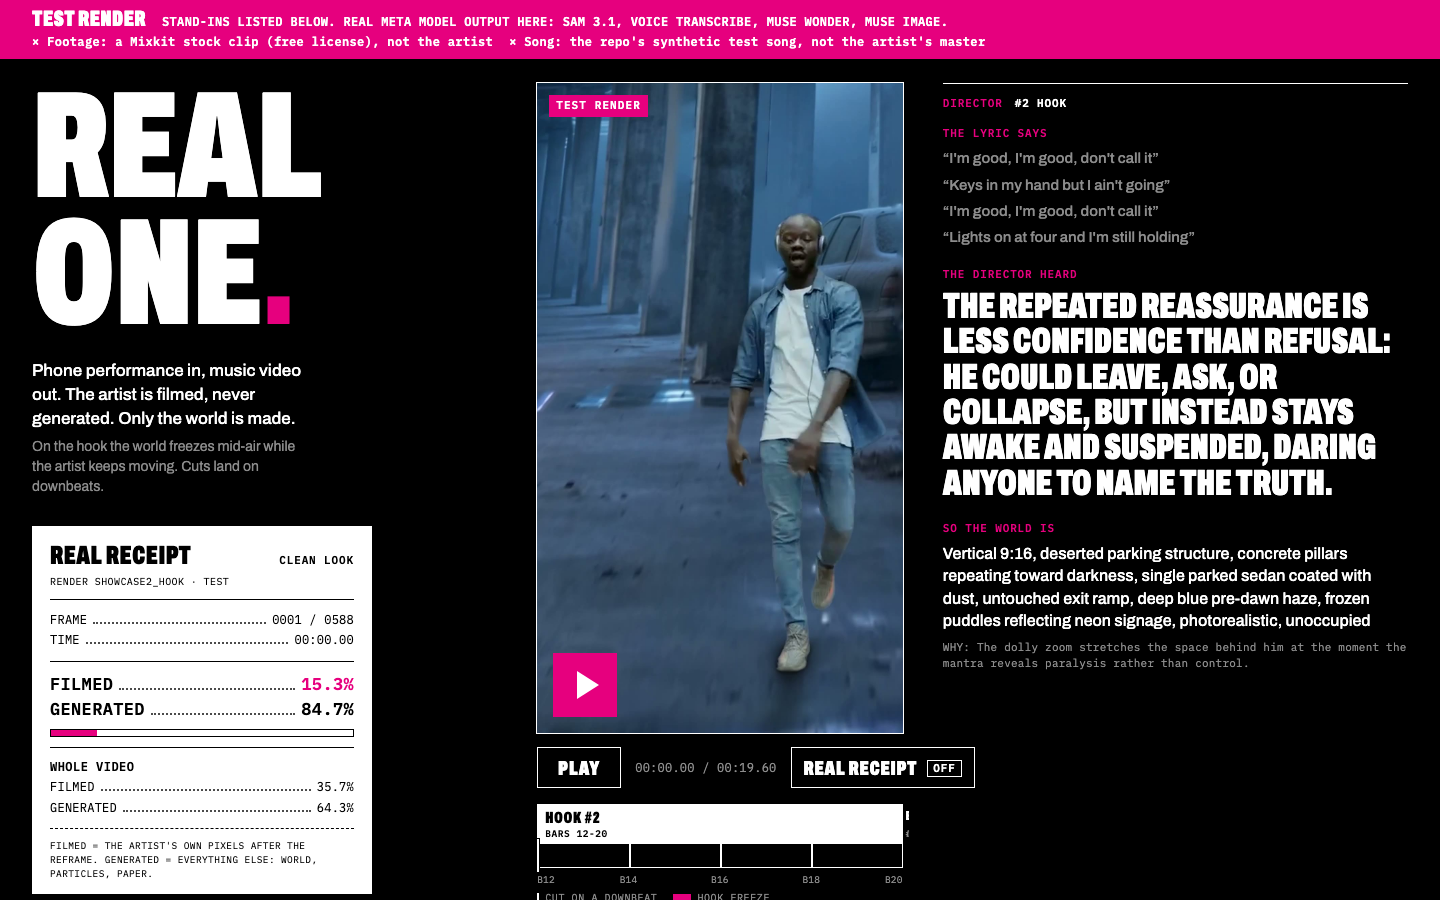
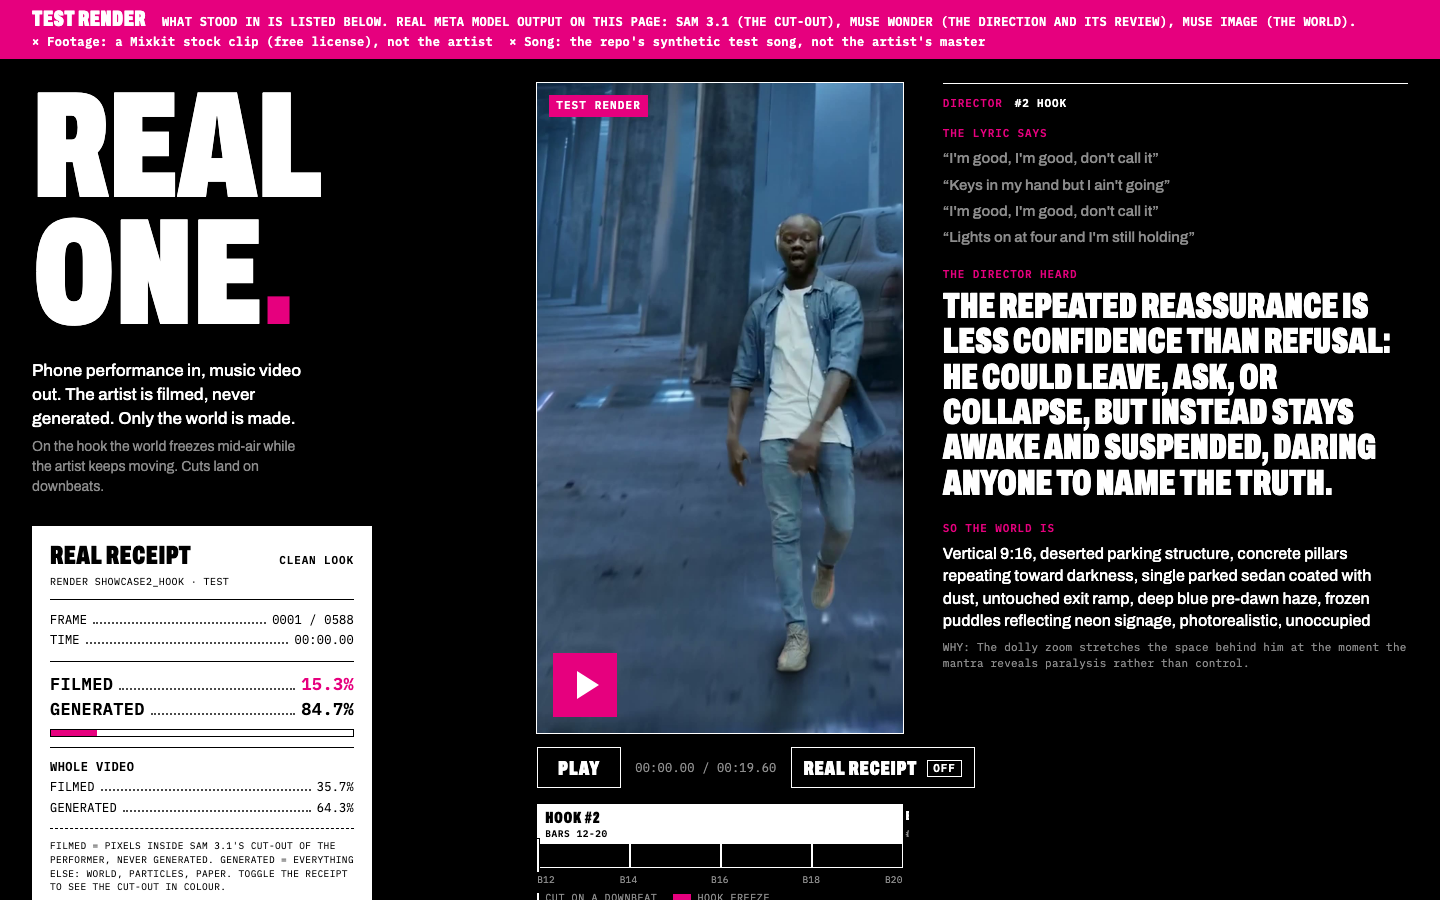
Watch page: credit output, not calls; name what each model made
A second blind critic (Ansatz 7/9/9/8, ours 4/3/5/6) read the banner's
"Real Meta model output here" as "output goes here", and found no Voice
Transcribe output on the page. It was right: on the synthetic song every
section's `heard` list is empty and the lyric shown is the sheet.

- a model counts as output on the page only with evidence; Voice needs
  a transcript that heard words, else its card says it ran and heard
  nothing and the statement names it as returning nothing shown
- the banner names the thing on screen: SAM 3.1 (the cut-out), Muse
  Wonder (the direction and its review), Muse Image (the world)
- the receipt panel says FILMED is the inside of SAM 3.1's cut-out
- 4 new mutations, all red; live at 1440 and 390, no h-scroll, no errors

VERIFY PASS: secrets clean, page/director suites green.

Claude-Session: https://claude.ai/code/session_01MajkfxCMkSNEc5EVSCGjQe

Changed region(s): [[0.125, 0.0, 0.9375, 0.0311], [0.0, 0.9333, 0.2812, 1.0]]

diff --git a/web/watch.js b/web/watch.js
@@ -326,6 +326,10 @@
         const s = document.createElement("p"); s.className = "stand";
         s.innerHTML = "<b>STAND-IN</b> "; s.appendChild(document.createTextNode(m.stand_in)); el.appendChild(s);
       }
+      if (m.ran && m.note) {
+        const s = document.createElement("p"); s.className = "stand";
+        s.innerHTML = "<b>NOTE</b> "; s.appendChild(document.createTextNode(m.note)); el.appendChild(s);
+      }
       grid.appendChild(el);
     });
     const ul = $("made-code");
@@ -333,6 +337,11 @@
       li.innerHTML = "<b></b>"; li.querySelector("b").textContent = k.name;
       li.appendChild(document.createTextNode(k.did)); ul.appendChild(li); });
     $("made-total").textContent = "BILLED FOR THIS RENDER " + money(c.total_usd) + (test ? "  ·  TEST" : "");
+    const sam = c.models.find((m) => m.name === "SAM 3.1");
+    if (sam && sam.ran) {  // the receipt's colour region is SAM's output: say so where the numbers are
+      $("slip-foot").textContent = "FILMED = PIXELS INSIDE SAM 3.1'S CUT-OUT OF THE PERFORMER, NEVER GENERATED. " +
+        "GENERATED = EVERYTHING ELSE: WORLD, PARTICLES, PAPER. TOGGLE THE RECEIPT TO SEE THE CUT-OUT IN COLOUR.";
+    }
     $("made").hidden = false;
   }
 

diff --git a/web/index.html b/web/index.html
@@ -38,7 +38,7 @@
       <div class="row mono"><span>FILMED</span><i></i><span id="w-filmed">00.0%</span></div>
       <div class="row mono"><span>GENERATED</span><i></i><span id="w-gen">00.0%</span></div>
       <div class="slip-rule dashed"></div>
-      <p class="slip-foot mono">FILMED = THE ARTIST'S OWN PIXELS AFTER THE REFRAME. GENERATED = EVERYTHING ELSE: WORLD, PARTICLES, PAPER.</p>
+      <p class="slip-foot mono" id="slip-foot">FILMED = THE ARTIST'S OWN PIXELS AFTER THE REFRAME. GENERATED = EVERYTHING ELSE: WORLD, PARTICLES, PAPER.</p>
     </div>
     <p class="keys mono"><kbd>SPACE</kbd> PLAY / PAUSE <kbd>R</kbd> REAL RECEIPT</p>
   </section>

diff --git a/scripts/build_watch_page.py b/scripts/build_watch_page.py
@@ -64,6 +64,9 @@ META_MODELS = [
                                                          "cut and revises once."},
     {"id": "muse-image", "name": "Muse Image", "did": "Builds one world per section, 9:16, no people in frame."},
 ]
+# What each model's output IS on this page (the banner names it, so a judge knows where to look)
+MADE = {"sam-3.1": "the cut-out", "muse-image": "the world", "muse-wonder": "the direction and its review",
+        "voice-transcribe": "the lyric timing"}
 OUR_CODE = [
     {"name": "Beat grid + sync", "did": "Downbeats and sections from the master; the phone mic synced to it."},
     {"name": "Compositor", "did": "Reframe, edge despill, colour match, grain; cuts land on downbeats."},
@@ -165,18 +168,20 @@ def test_reasons(stem, run, shots, treatment=None, repo=REPO, stand_in=None):
     return reasons
 
 
-def banner_html(reasons, ran=()):
-    """The TEST banner. It says what stood in (the reasons) and, separately, which Meta models really produced
-    output here, so a judge can tell a stand-in clip from a stand-in model."""
+def banner_html(reasons, made=()):
+    """The TEST banner. It says what stood in (the reasons) and, separately, which Meta models' real output is on
+    the page and what that output is, so a judge can tell a stand-in clip from a stand-in model. `made` holds
+    (name, what it made) pairs. A blind critic read the earlier "output here" as "output goes here", so the copy
+    names the thing on screen."""
     items = "".join(f"<li>{_esc(r)}</li>" for r in reasons)
-    said = (f"Stand-ins listed below. Real Meta model output here: {', '.join(ran)}." if ran
-            else "Not the film. No Meta model ran.")
+    said = ("What stood in is listed below. Real Meta model output on this page: "
+            + ", ".join(f"{n} ({w})" for n, w in made) + "." if made else "Not the film. No Meta model ran.")
     return ('<aside class="test-banner" id="test-banner" role="note" aria-label="Test render">'
             f'<strong>TEST RENDER</strong><span>{_esc(said)}</span>'
             f'<ul>{items}</ul></aside>')
 
 
-def models_that_ran(run, shots, treatment, out_dir, loop_ledger=()):
+def models_that_ran(run, shots, treatment, out_dir, loop_ledger=(), lyrics=None):
     """Which Meta models really produced something on this page, from evidence only: SAM 3.1 when the masks are
     not the local test engine; Muse Image when a world came from a prompt with a Muse Image file behind it
     (out/worlds/muse_*.json); Muse Wonder and Voice Transcribe when the treatment is a keyed run whose spend
@@ -207,6 +212,12 @@ def models_that_ran(run, shots, treatment, out_dir, loop_ledger=()):
             if rows:
                 got[mid] = {"calls": len(rows), "frames": None,
                             "usd": round(sum(float(x.get("usd", 0) or 0) for x in rows), nd)}
+    if "voice-transcribe" in got:  # a call is not output: the page shows words only if the transcript heard some
+        heard = any(sec.get("heard") for sec in (lyrics or {}).get("sections", []))
+        if not heard:
+            got["voice-transcribe"].update(output=False, note="Ran, and heard no words in this song (the stand-in "
+                                                               "is synthetic), so the lyric shown is the artist's "
+                                                               "sheet.")
     return got
 
 
@@ -228,14 +239,16 @@ def build_credits(reasons, run, credits_file=None, repo=REPO, ran=None):
             "muse-image": "three procedural test plates (TEST ONLY)",
         }
         ran = ran or {}
-        real = [m["name"] for m in META_MODELS if m["id"] in ran]
+        made = [m["name"] for m in META_MODELS if m["id"] in ran and ran[m["id"]].get("output", True)]
+        silent = [m["name"] for m in META_MODELS if m["id"] in ran and not ran[m["id"]].get("output", True)]
+        rest = ("the footage and song are the stand-ins." if len(ran) == len(META_MODELS)
+                else "the rest were stood in for.")
+        said = ((", ".join(made) + " made what you see here" if made else "No model's output is on this page")
+                + ("; " + ", ".join(silent) + " ran and returned nothing shown here" if silent else "")
+                + "; " + rest)
         return {
             "status": "TEST",
-            "statement": ("A test render. Each line below names what the model does in Real One and whether it "
-                          "ran here: " + ((", ".join(real) + (" did; the footage and song are the stand-ins."
-                                                               if len(real) == len(META_MODELS)
-                                                               else " did; the rest were stood in for."))
-                                          if real else "none did.")),
+            "statement": "A test render. " + said,
             "models": [dict(m, ran=m["id"] in ran, stand_in=None if m["id"] in ran else stand_in[m["id"]],
                             **(ran[m["id"]] if m["id"] in ran else {"calls": 0, "frames": 0, "usd": 0.0}))
                        for m in META_MODELS],
@@ -507,7 +520,7 @@ def build(tag, section, treatment_path=None, credits_path=None, out=None, look=N
             reasons = reasons + ["Director review: a FIXTURE (dry) run, not Muse Wonder output"]
     loop_ledger = ((load_json(direct_log, "director log", repo).get("spend") or {}).get("ledger", [])
                    if review is not None and review["mode"] == "keyed" else [])
-    ran = models_that_ran(run, shots, treatment, out_dir, loop_ledger) if reasons else {}
+    ran = models_that_ran(run, shots, treatment, out_dir, loop_ledger, lyrics) if reasons else {}
     credits = build_credits(reasons, run, credits_path, repo, ran=ran)
 
     template = (web / "index.html").read_text()
@@ -560,7 +573,8 @@ def build(tag, section, treatment_path=None, credits_path=None, out=None, look=N
     }
     dump(data / "manifest.json", manifest)
 
-    page = template.replace(BANNER_MARK, banner_html(reasons, [m["name"] for m in META_MODELS if m["id"] in ran])
+    page = template.replace(BANNER_MARK, banner_html(reasons, [(m["name"], MADE[m["id"]]) for m in META_MODELS
+                                                               if m["id"] in ran and ran[m["id"]].get("output", True)])
                             if reasons else "")
     page = page.replace('data-test="0"', f'data-test="{1 if reasons else 0}"')
     if FOOT_MARK not in page:

diff --git a/tests/test_build_watch_page.py b/tests/test_build_watch_page.py
@@ -317,8 +317,17 @@ def test_a_test_render_credits_exactly_the_models_that_ran(repo):
     assert (img["calls"], img["frames"], img["usd"]) == (1, None, 0.01)       # one world, priced per image
     assert next(x for x in c["models"] if x["name"] == "SAM 3.1")["calls"] == 0  # stood in: nothing ran
     html = (out / "index.html").read_text()
-    assert "Real Meta model output here: Voice Transcribe, Muse Wonder, Muse Image." in html
+    assert ("Real Meta model output on this page: Muse Wonder (the direction and its review), Muse Image (the "
+            "world).") in html                                          # Voice ran but no transcript is shown
     assert "No Meta model ran" not in html
+    voice = next(x for x in c["models"] if x["name"] == "Voice Transcribe")
+    assert voice["ran"] and voice["output"] is False and "heard no words" in voice["note"]
+    assert "Voice Transcribe ran and returned nothing shown here" in c["statement"]
+    (repo / "out" / "tr_lyrics.json").write_text(json.dumps(
+        {"sections": [{"index": 2, "lines": ["a line"], "heard": ["a line"]}]}))
+    out, m = build(repo, treatment_path=tp)
+    html = (out / "index.html").read_text()
+    assert "Voice Transcribe (the lyric timing), Muse Wonder" in html     # words heard: its output is on the page
 
 
 def test_a_dry_run_treatment_is_never_credited_as_a_model_run(repo):

diff --git a/CHANGELOG.md b/CHANGELOG.md
@@ -46,6 +46,14 @@
     (`docs/screenshots/2026-11-01_watch-live-*`).
   - Costs under a dime keep a third decimal; the phone banner is shorter.
   - 7 tests; 17 mutations of the new guards, all red, file restored byte-identical.
+  - **Round 2 (a fresh blind critic, same rubric, Nov 1 23:30): Ansatz 7/9/9/8, ours 4/3/5/6.** Its gap for us is
+    still the stand-in footage. Two of its readings were our copy: "Real Meta model output here: ..." read as "the
+    output goes here" (so not on this page), and Voice Transcribe was credited although it heard no words in the
+    synthetic song (every section's `heard` is empty; the lyric shown is the sheet). Now a model counts as output
+    on the page only with evidence (Voice: a transcript that heard words); the banner names what each one made
+    ("SAM 3.1 (the cut-out), Muse Wonder (the direction and its review), Muse Image (the world)"); Voice's card
+    says it ran and heard nothing; the receipt panel says FILMED is the inside of SAM 3.1's cut-out. 4 mutations,
+    all red.
 - **Muse Glimmer, wired, not yet run.** `plan --brain glimmer` sends the treatment through the same schema, guard and
   validation as Wonder, to Muse Glimmer 30B (Apache-2.0, Meta's Q4_K_M GGUF) on a llama.cpp server we host. It reads
   the lyrics and the beat grid (no audio input). `scripts/glimmer_pod.py run -- <command>` rents one 24 GB GPU on
